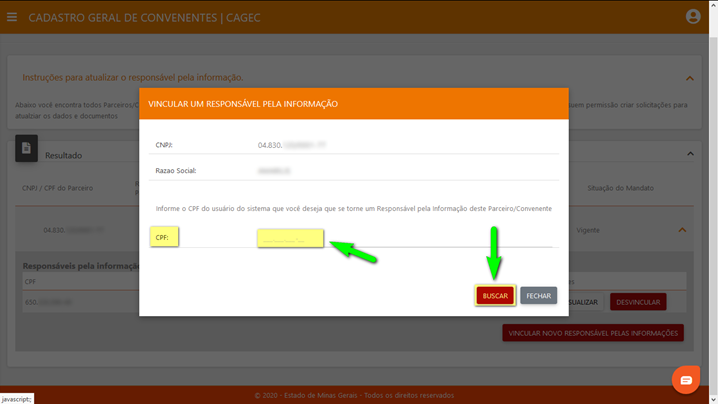
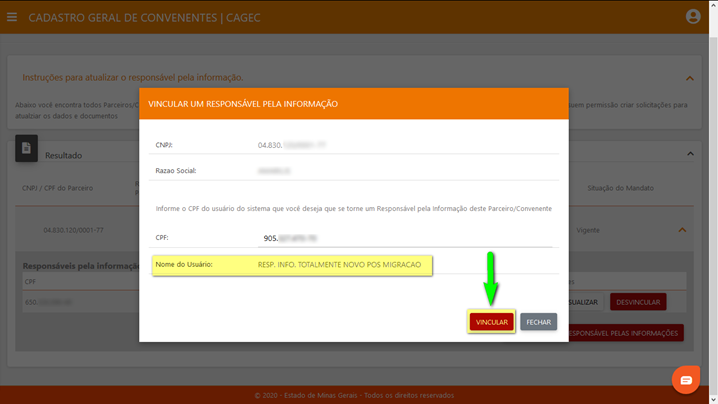
GitBook: [master] 35 pages and 10 assets modified

Changed region(s): [[0.1838, 0.5644, 0.7967, 0.8614], [0.1838, 0.5347, 0.6128, 0.6832], [0.0, 0.9505, 0.0613, 1.0]]

diff --git a/gerir-responsaveis-pelas-informacoes-do-parceiro-convenente/README.md b/gerir-responsaveis-pelas-informacoes-do-parceiro-convenente/README.md
@@ -1,0 +1,69 @@
+# Gerir Responsáveis pelas Informações do Parceiro / Convenente
+
+O Representante Legal pode fazer a gestão das pessoas \(usuários do sistema CAGEC\) que podem atuar em nome do Parceiro / Convenente.
+
+**1º PASSO:**  
+Acessar o Portal CAGEC e clicar em “ENTRAR”
+
+![](../.gitbook/assets/image%20%2850%29.png)
+
+**2º PASSO:**  
+Realizar o login no sistema CAGEC
+
+![](../.gitbook/assets/image%20%2856%29.png)
+
+**3º PASSO:**  
+Acessar o menu do sistema e escolhe a opção “**Responsáveis Vinculados**” &gt;&gt; “**Alterar/Incluir Responsável pela Informação**”
+
+![](../.gitbook/assets/image%20%2829%29.png)
+
+![](../.gitbook/assets/image%20%2845%29.png)
+
+Perceba que, automaticamente, o sistema listará o\(s\) Parceiro/Convenente\(s\) em que o usuário logado é o representante legal.
+
+**4º PASSO:**  
+Para o Parceiro/Convenente desejado, clique em \[ **v** \] “Clique para visualizar o\(s\) responsável pela informação”.
+
+![](../.gitbook/assets/image%20%2842%29.png)
+
+Perceba que, automaticamente, o sistema listará o\(s\) Responsável\(is\) pela Informação vinculado Parceiro/Convenente selecionado.
+
+**5º PASSO:**  
+Gestão dos Responsáveis Para cada Responsável pela Informação, o representante legal pode:   
+                5.1 – **VISUALIZAR** os dados básicos do Responsável pela Informação \(caso esteja vinculado\)   
+                5.2 – **DESVINCULAR** o Responsável pela Informação \(caso esteja vinculado\) VINCULAR o Responsável pela Informação novamente \(caso esteja desvinculado\)
+
+Ou,   
+O representante legal pode adicionar novos responsáveis, clicando em “**VINCULAR NOVO RESPONSÁVEL PELAS INFORMAÇÕES**” \(5.3\).
+
+![](../.gitbook/assets/image%20%2849%29.png)
+
+5.3 – Vinculando novo Responsável pela Informação   
+         5.3.1 clicar em “**VINCULAR NOVO RESPONSÁVEL PELAS INFORMAÇÕES**”   
+         5.3.2 informe o CPF do usuário que será o novo Responsável pela Informação e clique em “**BUSCAR**”   
+                   _**PRÉ-REQUISITO**_: o usuário \(CPF\) já deve existir \(ser cadastrado\) no sistema CAGEC
+
+![](../.gitbook/assets/image%20%2855%29.png)
+
+           5.3.3 confirme se o Nome do Usuário está correto e clique em “**VINCULAR**”
+
+![](../.gitbook/assets/image%20%2852%29.png)
+
+Será exibida a mensagem de sucesso.
+
+![](../.gitbook/assets/image%20%2830%29.png)
+
+```text
+Perceba que o usuário vinculado passa a ser listado (exibido) como um dos Responsáveis pela Informação do Parceiro / Convenente.
+```
+
+![](../.gitbook/assets/image%20%2837%29.png)
+
+
+
+
+
+
+
+
+

diff --git a/SUMMARY.md b/SUMMARY.md
@@ -32,5 +32,6 @@
   * [● Fundo Municipal de Saúde](dados-e-documentos-necessarios-para-a-regularidade-da-instituicao/fundo-municipal-de-saude.md)
   * [● Fundo Municipal de Assistência Social](dados-e-documentos-necessarios-para-a-regularidade-da-instituicao/fundo-municipal-de-assistencia-social.md)
   * [● Serviço Social Autônomo](dados-e-documentos-necessarios-para-a-regularidade-da-instituicao/servico-social-autonomo.md)
-* [Gerir Responsáveis pelas Informações do Parceiro / Convenente](gerir-responsaveis-pelas-informacoes-do-parceiro-convenente.md)
+* [Gerir Responsáveis pelas Informações do Parceiro / Convenente](gerir-responsaveis-pelas-informacoes-do-parceiro-convenente/README.md)
+  * [Desvincular um Responsável pela Informação](gerir-responsaveis-pelas-informacoes-do-parceiro-convenente/desvincular-um-responsavel-pela-informacao.md)
 

diff --git a/gerir-responsaveis-pelas-informacoes-do-parceiro-convenente/desvincular-um-responsavel-pela-informacao.md b/gerir-responsaveis-pelas-informacoes-do-parceiro-convenente/desvincular-um-responsavel-pela-informacao.md
@@ -1,0 +1,14 @@
+# Desvincular um Responsável pela Informação
+
+_**PRÉ-REQUISITO**_: o Responsável não pode possuir uma solicitação em aberto no sistema \(em criação ou em processo de análise\)
+
+5.4 – Desvinculando um Responsável pela Informação   
+           5.4.1 na ‘linha’ do Responsável a ser desvinculado, clicar em “**DESVINCULAR**”   
+           5.4.2 confirma a desvinculação, clicando em “**OK**”.
+
+![](../.gitbook/assets/image%20%2841%29.png)
+
+![](../.gitbook/assets/image%20%2859%29.png)
+
+
+
